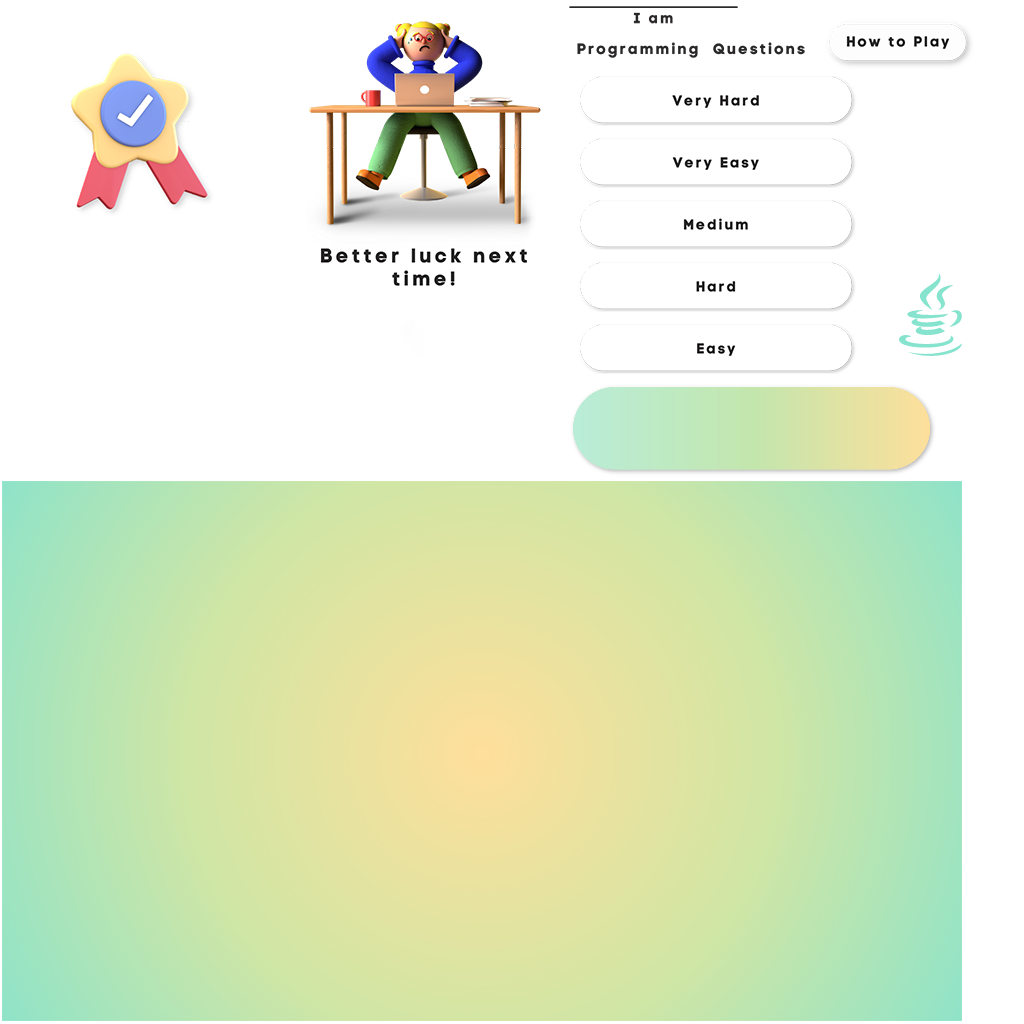
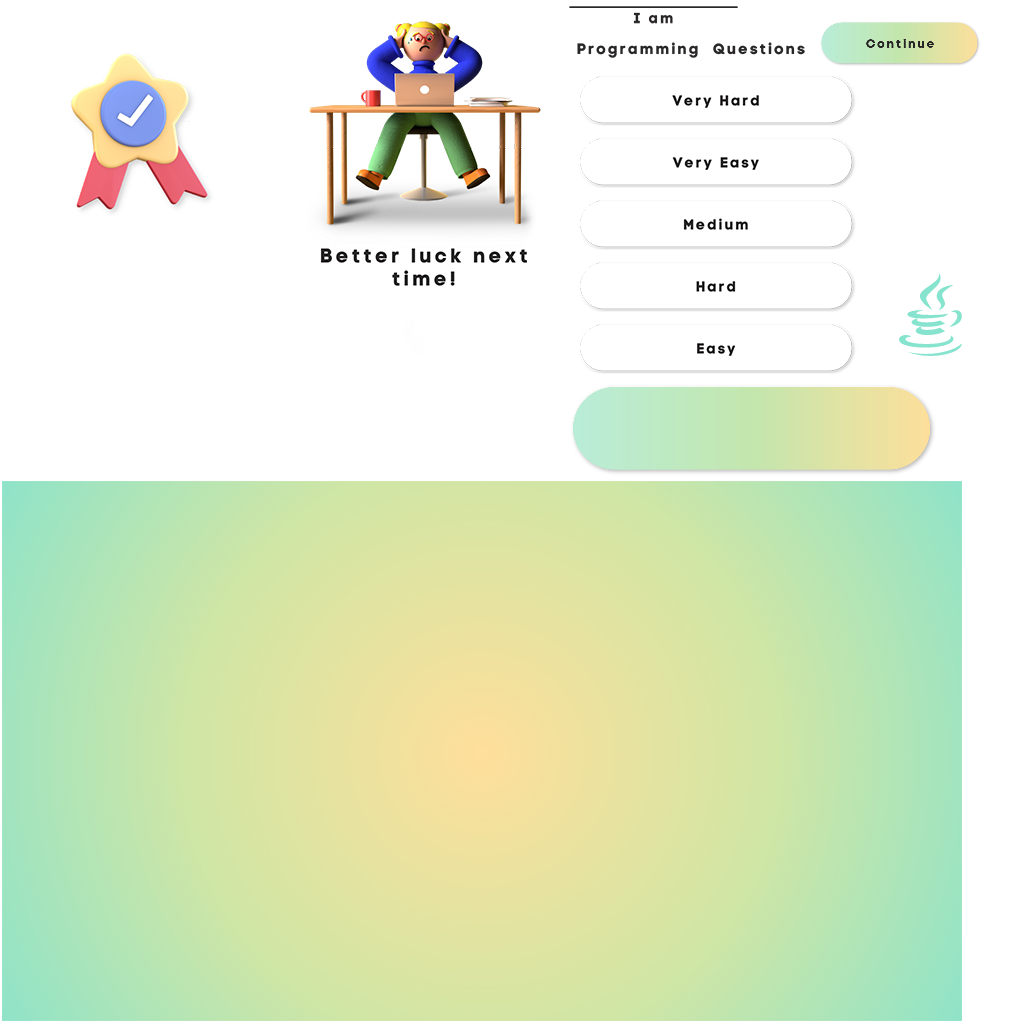
Show earnings on correct answer screen

Changed region(s): [[0.7812, 0.0, 0.9688, 0.0625]]

diff --git a/core/src/com/mygdx/game/CorrectAnswerScreen.java b/core/src/com/mygdx/game/CorrectAnswerScreen.java
@@ -6,8 +6,12 @@ import com.badlogic.gdx.Screen;
 import com.badlogic.gdx.graphics.GL20;
 import com.badlogic.gdx.graphics.OrthographicCamera;
 import com.badlogic.gdx.graphics.g2d.SpriteBatch;
+import com.badlogic.gdx.math.Rectangle;
 import com.badlogic.gdx.math.Vector2;
 import com.badlogic.gdx.utils.viewport.ExtendViewport;
+
+import java.util.ArrayList;
+import java.util.Collections;
 
 import util.Assets;
 import util.Constants;
@@ -18,10 +22,14 @@ public class CorrectAnswerScreen extends InputAdapter implements Screen {
     private SpriteBatch batch;
     private ExtendViewport viewport;
     private OrthographicCamera camera;
+    private ArrayList<String> praise;
 
-    public CorrectAnswerScreen(ProgrammerGame programmerGame, SpriteBatch batch){
+    private int score;
+
+    public CorrectAnswerScreen(ProgrammerGame programmerGame, SpriteBatch batch, int score){
         this.programmerGame = programmerGame;
         this.batch = batch;
+        this.score = score;
         camera = new OrthographicCamera(Constants.WORLD_SIZE_WIDTH, Constants.WORLD_SIZE_HEIGHT);
         viewport = new ExtendViewport(Constants.WORLD_SIZE_WIDTH, Constants.WORLD_SIZE_HEIGHT, camera);
         camera.position.set(viewport.getWorldWidth() / 2f, viewport.getWorldHeight() / 2f, 0);
@@ -29,6 +37,18 @@ public class CorrectAnswerScreen extends InputAdapter implements Screen {
 
     @Override
     public void show() {
+        praise = new ArrayList<>();
+        praise.add("Awesome!");
+        praise.add("Amazing!");
+        praise.add("Brilliant!");
+        praise.add("Incredible!");
+        praise.add("Wonderful!");
+        praise.add("Superb!");
+        praise.add("Excellent!");
+        praise.add("Exceptional!");
+        praise.add("Splendid!");
+        //shuffle to ensure randomness
+        Collections.shuffle(praise);
         Gdx.input.setInputProcessor(this);
     }
 
@@ -50,7 +70,41 @@ public class CorrectAnswerScreen extends InputAdapter implements Screen {
         Util.drawTextureRegion(batch, Assets.instance.correctAnswerScreenAssets.normalBG, new Vector2(viewport.getCamera().viewportWidth / 2, viewport.getCamera().viewportHeight / 2), Constants.BG_CENTER);
         Util.drawTextureRegion(batch, Assets.instance.correctAnswerScreenAssets.correctAnswerBG, new Vector2(viewport.getCamera().viewportWidth / 2, viewport.getCamera().viewportHeight / 2), Constants.GAMEOVER_BG_CENTER);
 
+        //draw praise
+        Vector2 praiseCenter = new Vector2(viewport.getCamera().viewportWidth / 2f, viewport.getCamera().viewportHeight / 2f);
+        Rectangle praiseRectangleBounds = new Rectangle(praiseCenter.x - Constants.GAMEOVER_BG_WIDTH / 2, praiseCenter.y - Constants.GAMEOVER_BG_HEIGHT / 2, Constants.GAMEOVER_BG_WIDTH, Constants.GAMEOVER_BG_HEIGHT);
+        Assets.instance.font.drawSourceCodeProBoldFont(batch, "praise", praise.get(0), praiseRectangleBounds);
+
+        //draw user earnings label
+        Vector2 usernameEarningsCenter = new Vector2(viewport.getCamera().viewportWidth / 2f, viewport.getCamera().viewportHeight / 2f - 50);
+        Rectangle usernameEarningsRectangleBounds = new Rectangle(usernameEarningsCenter.x - Constants.GAMEOVER_BG_WIDTH / 2, usernameEarningsCenter.y - Constants.GAMEOVER_BG_HEIGHT / 2, Constants.GAMEOVER_BG_WIDTH, Constants.GAMEOVER_BG_HEIGHT);
+        Assets.instance.font.drawSourceCodeProBoldFont(batch, "usernameEarnings", Constants.MENU_SCREEN_NAME + "'s Earnings:", usernameEarningsRectangleBounds);
+
+        //draw user earnings
+        Vector2 earningsCenter = new Vector2(viewport.getCamera().viewportWidth / 2f, viewport.getCamera().viewportHeight / 2f - 95);
+        Rectangle earningsRectangleBounds = new Rectangle(earningsCenter.x - Constants.GAMEOVER_BG_WIDTH / 2, earningsCenter.y - Constants.GAMEOVER_BG_HEIGHT / 2, Constants.GAMEOVER_BG_WIDTH, Constants.GAMEOVER_BG_HEIGHT);
+
+        Assets.instance.font.drawSourceCodeProBoldFont(batch, "earnings", "$" + score, earningsRectangleBounds);
+
+        //continue button
+        Util.drawTextureRegion(batch, Assets.instance.correctAnswerScreenAssets.continueButton, new Vector2(viewport.getCamera().viewportWidth / 2, viewport.getCamera().viewportHeight / 2f - 160), Constants.CONTINUE_BUTTON_CENTER);
         batch.end();
+    }
+
+    @Override
+    public boolean touchDown(int screenX, int screenY, int pointer, int button) {
+
+        Vector2 worldTouch = viewport.unproject(new Vector2(screenX, screenY));
+
+        //continue button
+        Vector2 continueButtonCenter = new Vector2(viewport.getCamera().viewportWidth / 2, viewport.getCamera().viewportHeight / 2f - 160);
+        Rectangle continueButtonBoundingBox = new Rectangle(continueButtonCenter.x - Constants.CONTINUE_BUTTON_WIDTH / 2, continueButtonCenter.y - Constants.CONTINUE_BUTTON_HEIGHT / 2, Constants.CONTINUE_BUTTON_WIDTH, Constants.CONTINUE_BUTTON_HEIGHT);
+
+        if(continueButtonBoundingBox.contains(worldTouch)){
+            programmerGame.showJigsawScreen();
+        }
+
+        return true;
     }
 
     @Override

diff --git a/core/src/com/mygdx/game/GameplayScreen.java b/core/src/com/mygdx/game/GameplayScreen.java
@@ -243,15 +243,19 @@ public class GameplayScreen extends InputAdapter implements Screen {
     private void judgeAnswer(boolean correct) {
         if (correct) {
             if (this.difficulty == Difficulty.THEORETICAL_VERY_EASY) {
-
+                score += Constants.THEORETICAL_VERY_EASY_POINTS;
                 Gdx.app.log(TAG, "THEORETICAL VERY EASY CORRECT");
             } else if (this.difficulty == Difficulty.THEORETICAL_EASY) {
+                score += Constants.THEORETICAL_EASY_POINTS;
                 Gdx.app.log(TAG, "THEORETICAL EASY CORRECT");
             } else if (this.difficulty == Difficulty.THEORETICAL_MEDIUM) {
+                score += Constants.THEORETICAL_MEDIUM_POINTS;
                 Gdx.app.log(TAG, "THEORETICAL MEDIUM CORRECT");
             } else if (this.difficulty == Difficulty.THEORETICAL_HARD) {
+                score += Constants.THEORETICAL_HARD_POINTS;
                 Gdx.app.log(TAG, "THEORETICAL HARD CORRECT");
             } else if (this.difficulty == Difficulty.THEORETICAL_VERY_HARD) {
+                score += Constants.THEORETICAL_VERY_HARD_POINTS;
                 Gdx.app.log(TAG, "THEORETICAL VERY HARD CORRECT");
             }
 
@@ -266,23 +270,24 @@ public class GameplayScreen extends InputAdapter implements Screen {
             } else if (this.difficulty == Difficulty.PROGRAMMING_VERY_HARD) {
                 Gdx.app.log(TAG, "PROGRAMMING VERY HARD CORRECT");
             }
-            programmerGame.showCorrectAnswerScreen();
+
+            programmerGame.showCorrectAnswerScreen(score);
         } else {
-            if(storeScoreStartTime == 0){
-                //store the scores
-                while(true){
-                    if(!Constants.preferences.contains("user-"+userCounter)){
-                        Constants.preferences.putString("user-"+userCounter, Constants.preferences.getString("user"));
-                        Constants.preferences.putInteger("score-"+userCounter, 3000000);
-                        break;
-                    } else{
-                        userCounter++;
-                    }
+
+            //store the scores
+            while(true){
+                if(!Constants.preferences.contains("user-"+userCounter)){
+                    Constants.preferences.putString("user-"+userCounter, Constants.preferences.getString("user"));
+                    Constants.preferences.putInteger("score-"+userCounter, score);
+                    break;
+                } else{
+                    userCounter++;
                 }
-                Constants.preferences.putInteger("userCounter", userCounter);
-                Constants.preferences.flush();
-                storeScoreStartTime = TimeUtils.nanoTime();
             }
+            Constants.preferences.putInteger("userCounter", userCounter);
+            Constants.preferences.flush();
+            storeScoreStartTime = TimeUtils.nanoTime();
+
             programmerGame.showGameOverScreen();
             Gdx.app.log(TAG, "WRONG");
         }

diff --git a/core/src/util/Assets.java b/core/src/util/Assets.java
@@ -82,11 +82,13 @@ public class Assets implements Disposable, AssetErrorListener {
 
         public final FreeTypeFontGenerator.FreeTypeFontParameter usernameFontParameter;
 
+        public final FreeTypeFontGenerator.FreeTypeFontParameter praiseFontParameter;
         public final FreeTypeFontGenerator.FreeTypeFontParameter earningsFontParameter;
         public final FreeTypeFontGenerator.FreeTypeFontParameter usernameEarningsFontParameter;
 
         public BitmapFont questionFont;
         public BitmapFont choicesFont;
+        public BitmapFont praiseFont;
         public BitmapFont earningsFont;
         public BitmapFont usernameFont;
         public BitmapFont usernameEarningsFont;
@@ -117,6 +119,11 @@ public class Assets implements Disposable, AssetErrorListener {
             usernameEarningsFontParameter .color = Color.BLACK;
             usernameEarningsFont = sourceCodeProBoldFontGenerator.generateFont(usernameEarningsFontParameter);
 
+            praiseFontParameter = new FreeTypeFontGenerator.FreeTypeFontParameter();
+            praiseFontParameter .size = 30;
+            praiseFontParameter .color = Color.BLACK;
+            praiseFont = sourceCodeProBoldFontGenerator.generateFont(praiseFontParameter);
+
             earningsFontParameter = new FreeTypeFontGenerator.FreeTypeFontParameter();
             earningsFontParameter.size = 40;
             earningsFontParameter.color = Color.BLACK;
@@ -145,6 +152,9 @@ public class Assets implements Disposable, AssetErrorListener {
                     break;
                 case "usernameEarnings":
                     drawCentered(usernameEarningsFont, batch, text, bounds);
+                    break;
+                case "praise":
+                    drawCentered(praiseFont, batch, text, bounds);
                     break;
             }
         }
@@ -250,6 +260,7 @@ public class Assets implements Disposable, AssetErrorListener {
         public final TextureAtlas.AtlasRegion answerBubbleButton;
 
 
+
         public GameplayScreenAssets(TextureAtlas atlas){
             fadeBG = atlas.findRegion(Constants.FADE_BG);
             normalBG = atlas.findRegion(Constants.NORMAL_BG);
@@ -276,10 +287,12 @@ public class Assets implements Disposable, AssetErrorListener {
     public class CorrectAnswerScreenAssets{
         public final TextureAtlas.AtlasRegion normalBG;
         public final TextureAtlas.AtlasRegion correctAnswerBG;
+        public final TextureAtlas.AtlasRegion continueButton;
 
         public CorrectAnswerScreenAssets(TextureAtlas atlas){
             normalBG = atlas.findRegion(Constants.NORMAL_BG);
             correctAnswerBG = atlas.findRegion(Constants.CORRECTANSWER_BG);
+            continueButton = atlas.findRegion(Constants.CONTINUE_BUTTON);
         }
     }
 }

diff --git a/core/src/util/Constants.java b/core/src/util/Constants.java
@@ -72,6 +72,12 @@ public class Constants {
     public static final float QUESTIONBUBBLE_WIDTH = 750;
     public static final float QUESTIONBUBBLE_HEIGHT = 100;
 
+    public static final String CONTINUE_BUTTON = "continue-button";
+    public static final float CONTINUE_BUTTON_WIDTH = 165;
+    public static final float CONTINUE_BUTTON_HEIGHT = 50;
+    public static final Vector2 CONTINUE_BUTTON_CENTER = new Vector2(83, 25);
+
+
     public static final int THEORETICAL_VERY_EASY_POINTS = 1000;
     public static final int THEORETICAL_EASY_POINTS = 2000;
     public static final int THEORETICAL_MEDIUM_POINTS = 5000;

diff --git a/core/src/com/mygdx/game/ProgrammerGame.java b/core/src/com/mygdx/game/ProgrammerGame.java
@@ -54,11 +54,11 @@ public class ProgrammerGame extends Game {
 		setScreen(new GameOverScreen(this, this.batch));
 	}
 
-	public void showCorrectAnswerScreen(){
-		setScreen(new CorrectAnswerScreen(this, this.batch));
+	public void showCorrectAnswerScreen(int score){
+		setScreen(new CorrectAnswerScreen(this, this.batch, score));
 	}
 
-	public void showJigsawScren(){
+	public void showJigsawScreen(){
 		setScreen(new JigsawScreen(this, this.batch));
 	}
 
